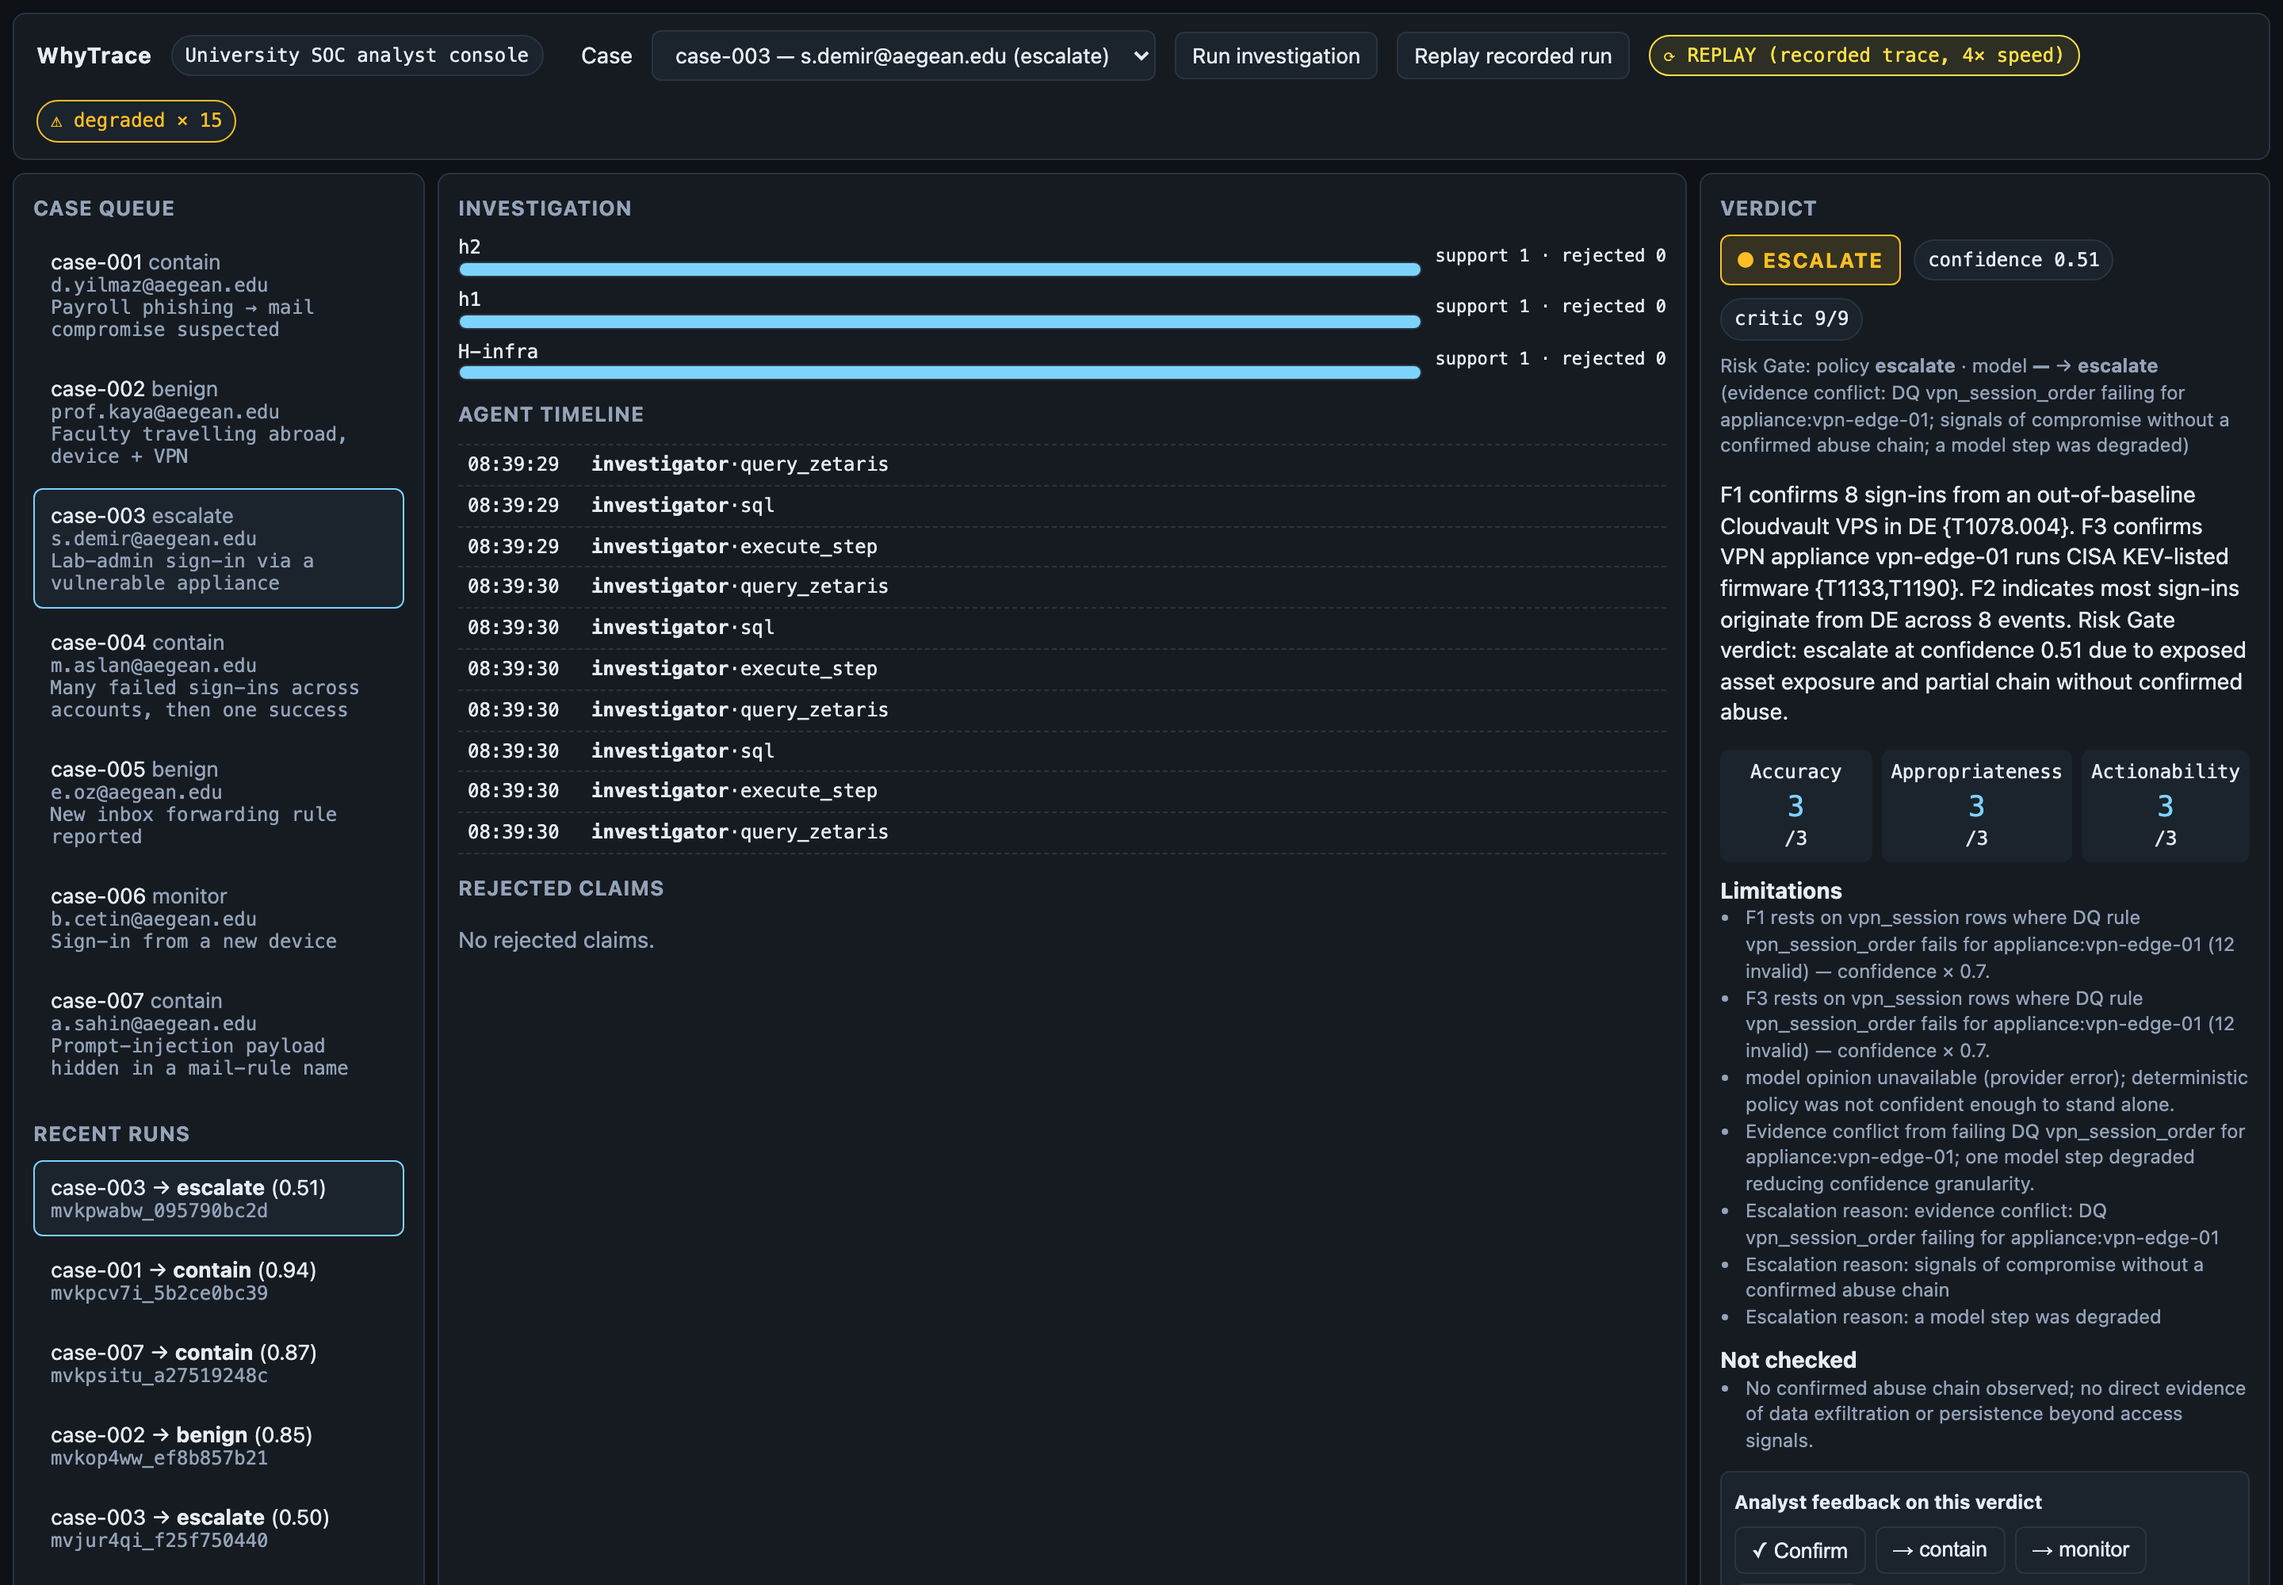
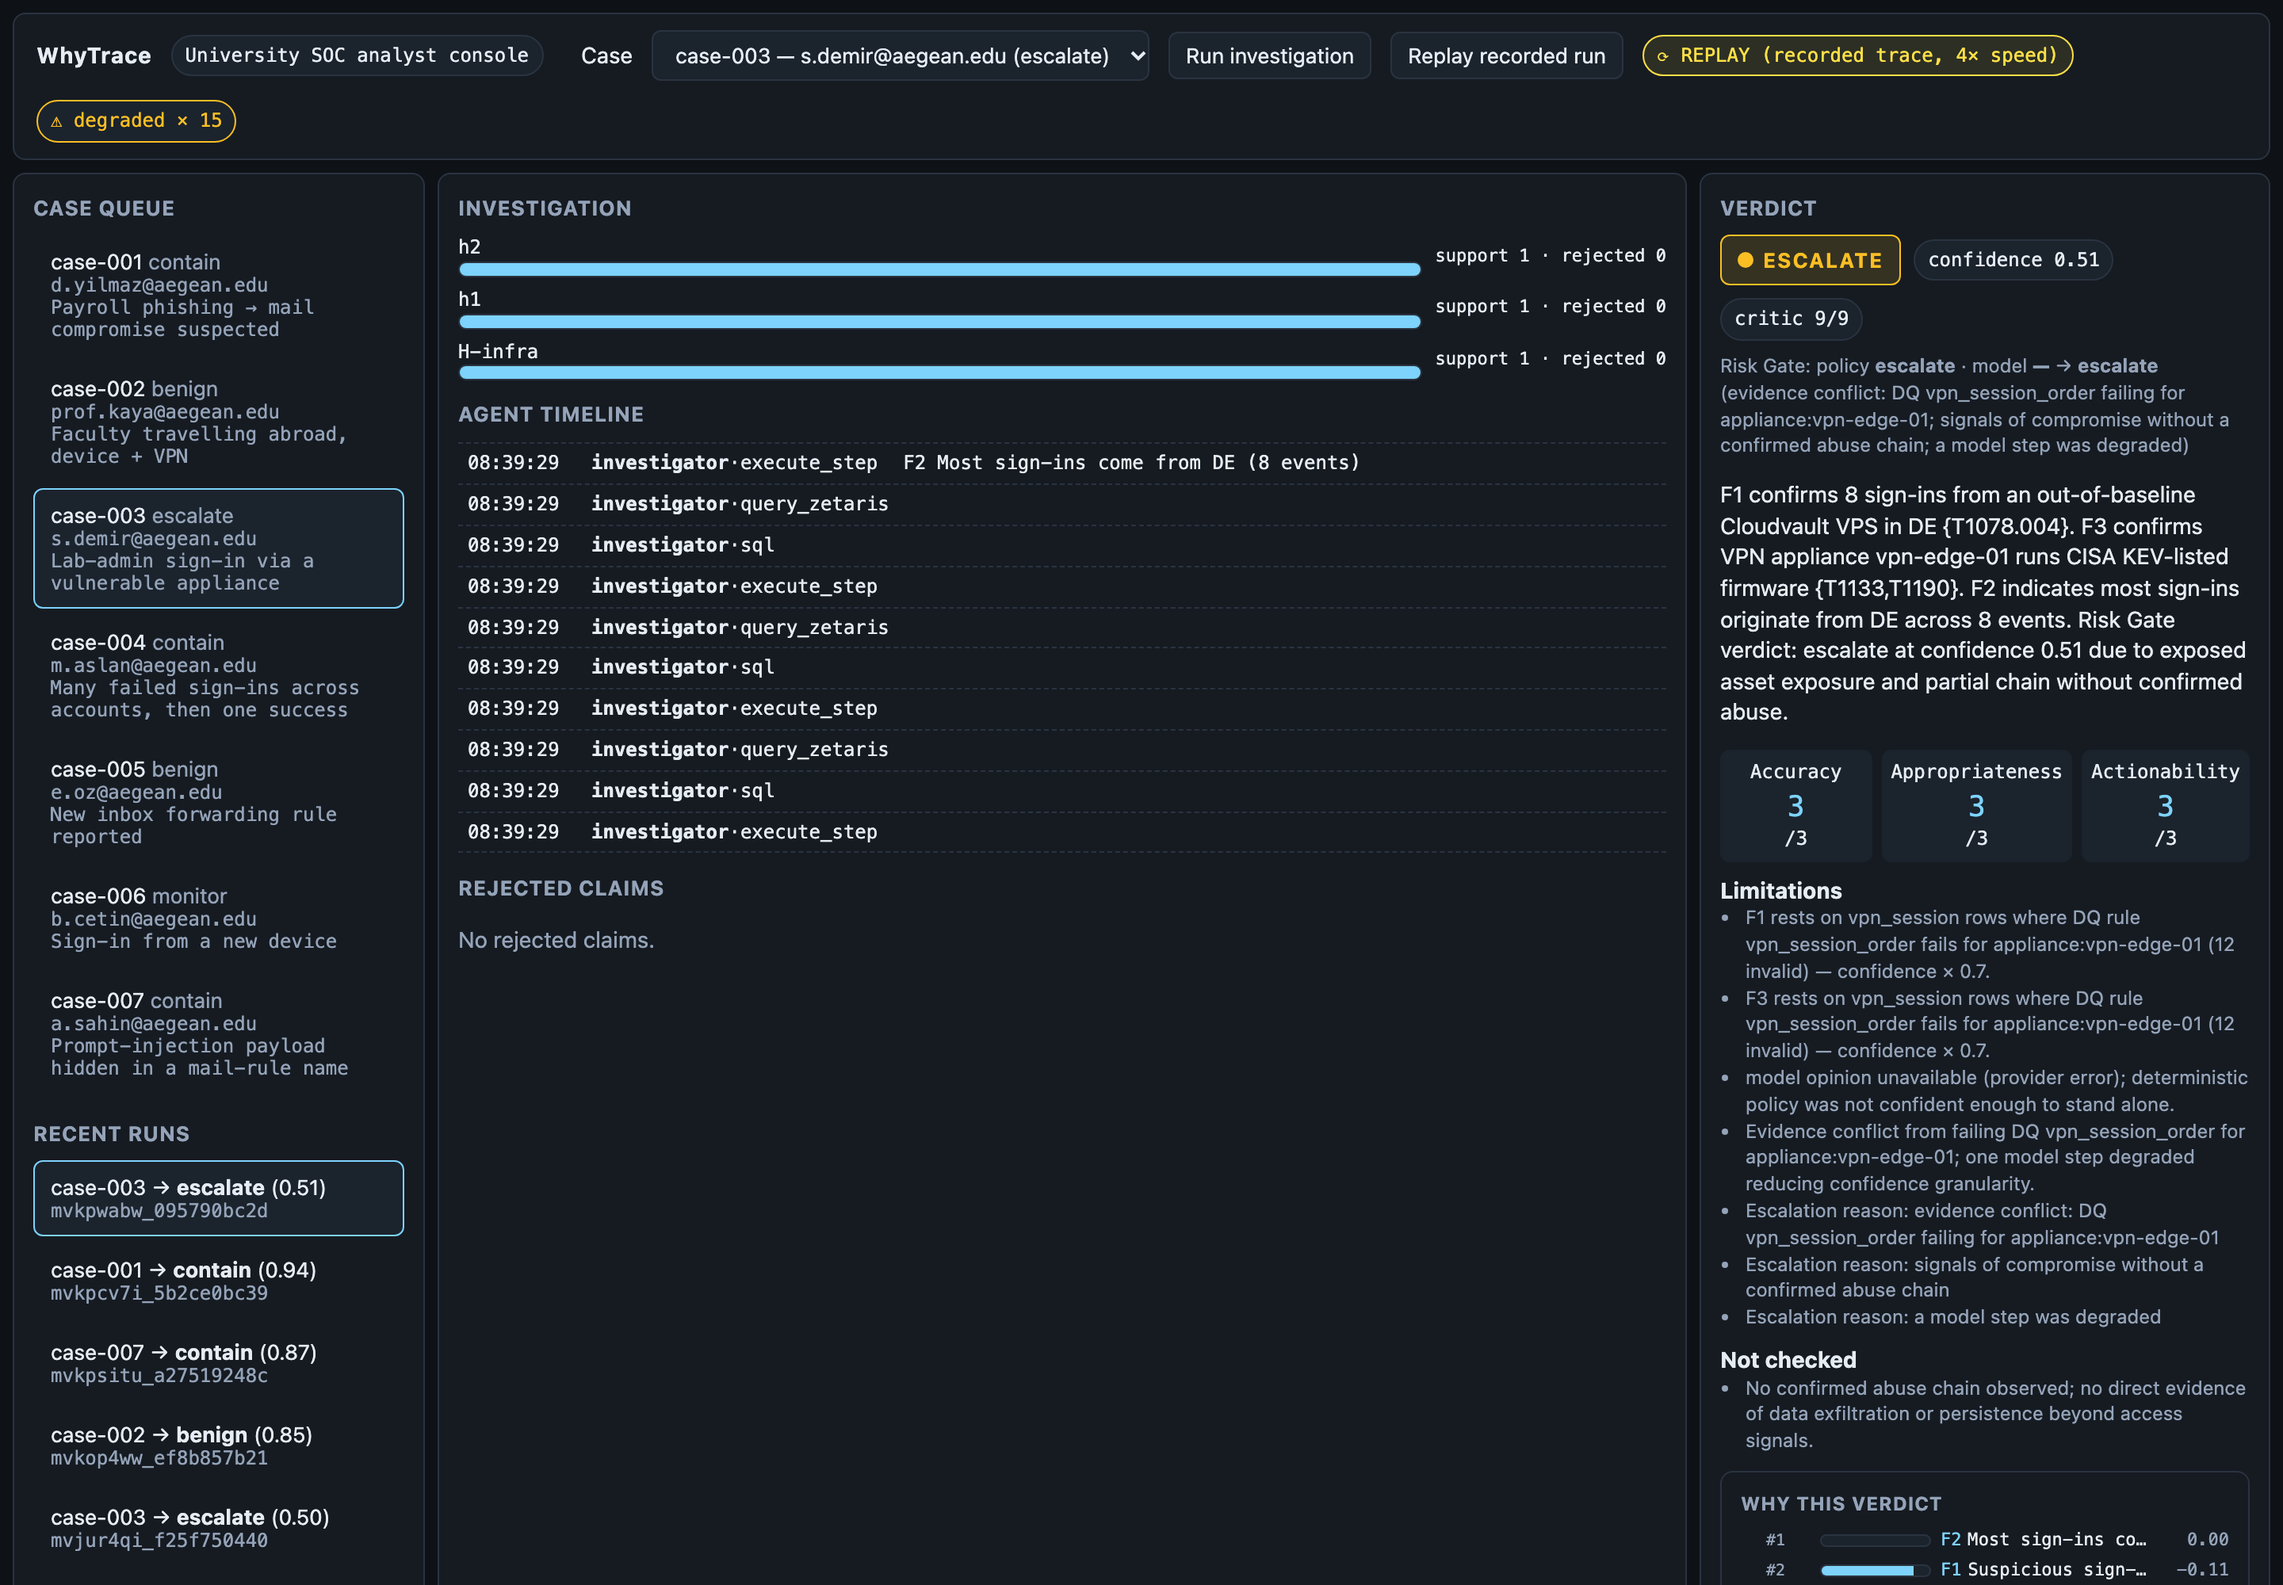
Console: "Why this verdict" panel + explain-focused screenshot

diff --git a/apps/web/src/App.tsx b/apps/web/src/App.tsx
@@ -249,6 +249,7 @@ export function App() {
         <aside className="panel" aria-label="Verdict">
           <h2>Verdict</h2>
           <VerdictPanel report={report} />
+          <ExplainPanel report={report} />
           <FeedbackPanel report={report} verdictFeedback={verdictFeedback} onConfirm={confirmVerdict} onReject={rejectVerdict} lessons={feedbackLessons} />
           <h2 style={{ marginTop: 12 }}>Markovian long sweep</h2>
           <MarkovianBlock markovian={markovian} />
@@ -363,6 +364,73 @@ function VerdictPanel({ report }: { report: Report | null }) {
         <div style={{ marginTop: 8 }}>
           <strong>Not checked</strong>
           <ul style={{ fontSize: 12, color: "var(--fg-dim)", margin: 0, paddingLeft: 16 }}>{r.not_checked.map((l, i) => <li key={i}>{l}</li>)}</ul>
+        </div>
+      ) : null}
+    </div>
+  );
+}
+
+function ExplainPanel({ report }: { report: Report | null }) {
+  if (!report?.explanation) return null;
+  const ex = report.explanation;
+  if (!ex.attribution.length) return null;
+  const maxShap = Math.max(0.0001, ...ex.attribution.map((a) => Math.abs(a.shapley)));
+  const sumShapley = ex.attribution.reduce((s, a) => s + a.shapley, 0);
+  const top = ex.attribution.slice(0, 5);
+  const faith = ex.faithfulness;
+  const faithClass = !faith ? "" : faith.score >= 0.66 ? "good" : faith.score >= 0.34 ? "weak" : "bad";
+  // Build "Would change the verdict" chips from LOO (single removals) and the minimal counterfactual set.
+  const flippingLoo = ex.counterfactuals.leave_one_out.filter((l) => l.changes_verdict);
+  const minSet = ex.counterfactuals.minimal_set;
+  return (
+    <div className="explain-panel" aria-label="Why this verdict">
+      <h3>Why this verdict</h3>
+      <div className="attribution">
+        {top.map((a) => {
+          const width = `${Math.min(100, (Math.abs(a.shapley) / maxShap) * 100)}%`;
+          return (
+            <div className="row" key={a.finding_id} title={`${a.finding_id} · Shapley ${a.shapley.toFixed(4)} · ${a.attack.join(",") || "no technique"}`}>
+              <span className="rank">#{a.rank}</span>
+              <div className="barwrap"><div style={{ width }} /></div>
+              <span className="claim"><span className="fid">{a.finding_id}</span>{a.claim}</span>
+              <span className="score">{a.shapley.toFixed(2)}</span>
+            </div>
+          );
+        })}
+      </div>
+      <div style={{ fontSize: 11, color: "var(--fg-dim)", marginBottom: 6, fontFamily: "var(--mono)" }}>
+        attribution Σ={sumShapley.toFixed(2)} · mode={ex.mode}{ex.mode === "sampled" ? ` (${ex.samples_used} samples)` : ""} · players={ex.n_findings}
+      </div>
+      {flippingLoo.length || minSet ? (
+        <div className="cf-chips" aria-label="Counterfactual chips">
+          {flippingLoo.map((l) => (
+            <span className="cf-chip" key={`loo-${l.finding_id}`} title={`Without ${l.finding_id} the policy would call this ${l.verdict_without}`}>
+              Without <strong>{l.finding_id}</strong> → {l.verdict_without}
+            </span>
+          ))}
+          {minSet && minSet.finding_ids.length > 1 ? (
+            <span className="cf-chip" title={`Removing all of ${minSet.finding_ids.join(", ")} would flip to ${minSet.verdict}`}>
+              Without <strong>{minSet.finding_ids.join(" + ")}</strong> → {minSet.verdict}
+            </span>
+          ) : null}
+          {!flippingLoo.length && !minSet ? <span className="cf-chip">verdict is robust (no ≤3-finding removal flips it)</span> : null}
+        </div>
+      ) : (
+        <div className="cf-chips"><span className="cf-chip">verdict is robust (no ≤3-finding removal flips it)</span></div>
+      )}
+      {ex.contrastive ? (
+        <p className="contrastive-line" aria-label="Why not runner-up">
+          <strong>Why not {ex.contrastive.runner_up}?</strong> {ex.contrastive.explanation}
+        </p>
+      ) : null}
+      {faith ? (
+        <div style={{ display: "flex", gap: 6, flexWrap: "wrap", alignItems: "center" }}>
+          <span className={`faith-badge ${faithClass}`} title={`Top-3 Shapley findings: ${faith.top_shapley_ids.join(", ") || "(none)"} · Reporter cited: ${faith.cited_ids.join(", ") || "(none)"}`}>
+            faithfulness@{faith.top_k}: {faith.score.toFixed(2)} ({faith.overlap}/{faith.top_k})
+          </span>
+          {faith.revised ? (
+            <span className="model-chip" title={`Reporter revised; score ${faith.score_before_revision?.toFixed(2) ?? "n/a"} → ${faith.score.toFixed(2)}`}>revised</span>
+          ) : null}
         </div>
       ) : null}
     </div>

diff --git a/apps/api/src/server.ts b/apps/api/src/server.ts
@@ -6,7 +6,7 @@ import { readFileSync, writeFileSync, readdirSync, existsSync, mkdirSync, statSy
 import { basename, resolve as resolvePath, join } from "node:path";
 import Fastify, { type FastifyReply, type FastifyRequest } from "fastify";
 import { Nightshift, RunTrace, Zetaris } from "@whytrace/adapters";
-import { applyAnalystFeedback, CaseMemory, investigate, listDemoCases, type Report, Verdict } from "@whytrace/agents";
+import { applyAnalystFeedback, CaseMemory, explain, extractCitedFindingIds, faithfulness, investigate, listDemoCases, type Report, Verdict } from "@whytrace/agents";
 
 const PORT = Number(process.env.PORT ?? 8000);
 const ROOT = resolvePath(process.cwd());
@@ -111,13 +111,44 @@ function startRun(caseId: string, opts: { ablate?: { critic?: boolean; dq?: bool
   return entry;
 }
 
+/** Compute `explanation` for a report that was saved before DAY5 wired the
+ *  payload into the orchestrator. The policy context is reconstructed from
+ *  the report's own fields (rejected count, DQ invalid rows, decided_by →
+ *  degraded, core-sources default). Pure function — no model calls. */
+function enrichExplanation(r: Report): Report {
+  if (r.explanation || !Array.isArray(r.findings)) return r;
+  const rejectedCount = r.rejected_claims?.length ?? 0;
+  const dqConflicts: string[] = [];
+  for (const d of r.dq ?? []) if (d.invalid > 0) dqConflicts.push(`DQ ${d.rule} failing for ${d.table}${d.scope ? `@${d.scope}` : ""} (invalid=${d.invalid})`);
+  const degraded = r.decided_by === "policy_fallback";
+  const checkedSources = ["signin_event", "mail_event"];
+  const ex = explain({ findings: r.findings, rejectedCount, dqConflicts, degraded, checkedSources });
+  const narrative = [r.summary ?? "", ...(r.actions ?? []).map((a) => a.action)].join("\n");
+  const cited = extractCitedFindingIds(narrative);
+  const faith = ex.attribution.length ? faithfulness(ex.attribution, cited, 3) : null;
+  return {
+    ...r,
+    explanation: {
+      verdict: ex.verdict,
+      confidence: ex.confidence,
+      mode: ex.mode,
+      n_findings: ex.n_findings,
+      samples_used: ex.samples_used,
+      attribution: ex.attribution,
+      counterfactuals: ex.counterfactuals,
+      contrastive: ex.contrastive,
+      faithfulness: faith ? { ...faith, revised: false, score_before_revision: null } : null,
+    },
+  };
+}
+
 async function readReport(id: string): Promise<Report | null> {
   if (!existsSync(OUTPUT_DIR)) return null;
   const files = readdirSync(OUTPUT_DIR).filter((f) => f.endsWith(".json"));
   // Fast path: filename encodes the run_id (default name pattern case-xxx-<id>.json).
   for (const f of files) {
     if (f.includes(`-${id}`)) {
-      try { return JSON.parse(readFileSync(join(OUTPUT_DIR, f), "utf8")) as Report; } catch { /* keep scanning */ }
+      try { return enrichExplanation(JSON.parse(readFileSync(join(OUTPUT_DIR, f), "utf8")) as Report); } catch { /* keep scanning */ }
     }
   }
   // Fallback: a sample has been renamed (e.g. canonical demo file). Match on
@@ -125,7 +156,7 @@ async function readReport(id: string): Promise<Report | null> {
   for (const f of files) {
     try {
       const r = JSON.parse(readFileSync(join(OUTPUT_DIR, f), "utf8")) as Partial<Report>;
-      if (r.run_id === id) return r as Report;
+      if (r.run_id === id) return enrichExplanation(r as Report);
     } catch { /* skip malformed */ }
   }
   return null;

diff --git a/apps/web/src/styles.css b/apps/web/src/styles.css
@@ -263,3 +263,27 @@ footer.sponsor-strip {
 .rubric { display: grid; grid-template-columns: repeat(3, 1fr); gap: 6px; font-family: var(--mono); font-size: 12px; }
 .rubric div { background: var(--panel-2); padding: 6px; border-radius: 6px; text-align: center; }
 .rubric .score { font-size: 18px; color: var(--accent); display: block; }
+
+/* Why this verdict (DAY5) */
+.explain-panel { background: var(--panel); border: 1px solid var(--border); border-radius: 8px; padding: 12px; margin-top: 10px; }
+.explain-panel h3 { font-size: 12px; margin: 0 0 6px; text-transform: uppercase; color: var(--fg-dim); letter-spacing: 0.5px; }
+.explain-panel .attribution { display: grid; gap: 4px; margin-bottom: 10px; }
+.explain-panel .attribution .row { display: grid; grid-template-columns: 44px 70px 1fr 40px; gap: 6px; align-items: center; font-family: var(--mono); font-size: 11px; }
+.explain-panel .attribution .claim { color: var(--fg); white-space: nowrap; overflow: hidden; text-overflow: ellipsis; }
+.explain-panel .attribution .claim .fid { color: var(--accent); margin-right: 4px; }
+.explain-panel .attribution .score { color: var(--fg-dim); text-align: right; }
+.explain-panel .attribution .barwrap { height: 8px; background: var(--panel-2); border: 1px solid var(--border); border-radius: 4px; overflow: hidden; }
+.explain-panel .attribution .barwrap > div { height: 100%; background: var(--accent); }
+.explain-panel .attribution .rank { color: var(--fg-dim); font-size: 10px; text-align: center; }
+
+.cf-chips { display: flex; gap: 6px; flex-wrap: wrap; margin: 6px 0 10px; }
+.cf-chip { background: var(--panel-2); border: 1px solid var(--border); border-radius: 999px; padding: 4px 10px; font-family: var(--mono); font-size: 11px; color: var(--fg-dim); }
+.cf-chip strong { color: var(--escalate); }
+
+.contrastive-line { font-size: 12px; color: var(--fg-dim); margin: 4px 0 8px; }
+.contrastive-line strong { color: var(--fg); }
+
+.faith-badge { display: inline-flex; gap: 6px; padding: 3px 8px; border-radius: 999px; border: 1px solid var(--border); font-family: var(--mono); font-size: 11px; background: var(--panel-2); color: var(--fg-dim); }
+.faith-badge.good { color: var(--benign); border-color: var(--benign); }
+.faith-badge.weak { color: var(--escalate); border-color: var(--escalate); }
+.faith-badge.bad { color: var(--contain); border-color: var(--contain); }

diff --git a/apps/web/src/types.ts b/apps/web/src/types.ts
@@ -48,6 +48,31 @@ export type Report = {
   trace_id: string;
   log_file: string;
   execution_time_seconds: number;
+  explanation?: Explanation;
+};
+
+export type AttributionRow = {
+  finding_id: string;
+  claim: string;
+  attack: string[];
+  sql_ids: string[];
+  shapley: number;
+  rank: number;
+};
+
+export type Explanation = {
+  verdict: Verdict;
+  confidence: number;
+  mode: "exact" | "sampled";
+  n_findings: number;
+  samples_used: number;
+  attribution: AttributionRow[];
+  counterfactuals: {
+    leave_one_out: Array<{ finding_id: string; verdict_without: Verdict; confidence_without: number; changes_verdict: boolean }>;
+    minimal_set: { finding_ids: string[]; verdict: Verdict; confidence: number } | null;
+  };
+  contrastive: { runner_up: Verdict; explanation: string; blocking_findings: string[]; missing_evidence: string[] } | null;
+  faithfulness: { top_k: number; top_shapley_ids: string[]; cited_ids: string[]; overlap: number; score: number; revised: boolean; score_before_revision: number | null } | null;
 };
 
 export type SavedRun = { id: string; case_id: string; verdict: Verdict; confidence: number; file: string; ts: string };
